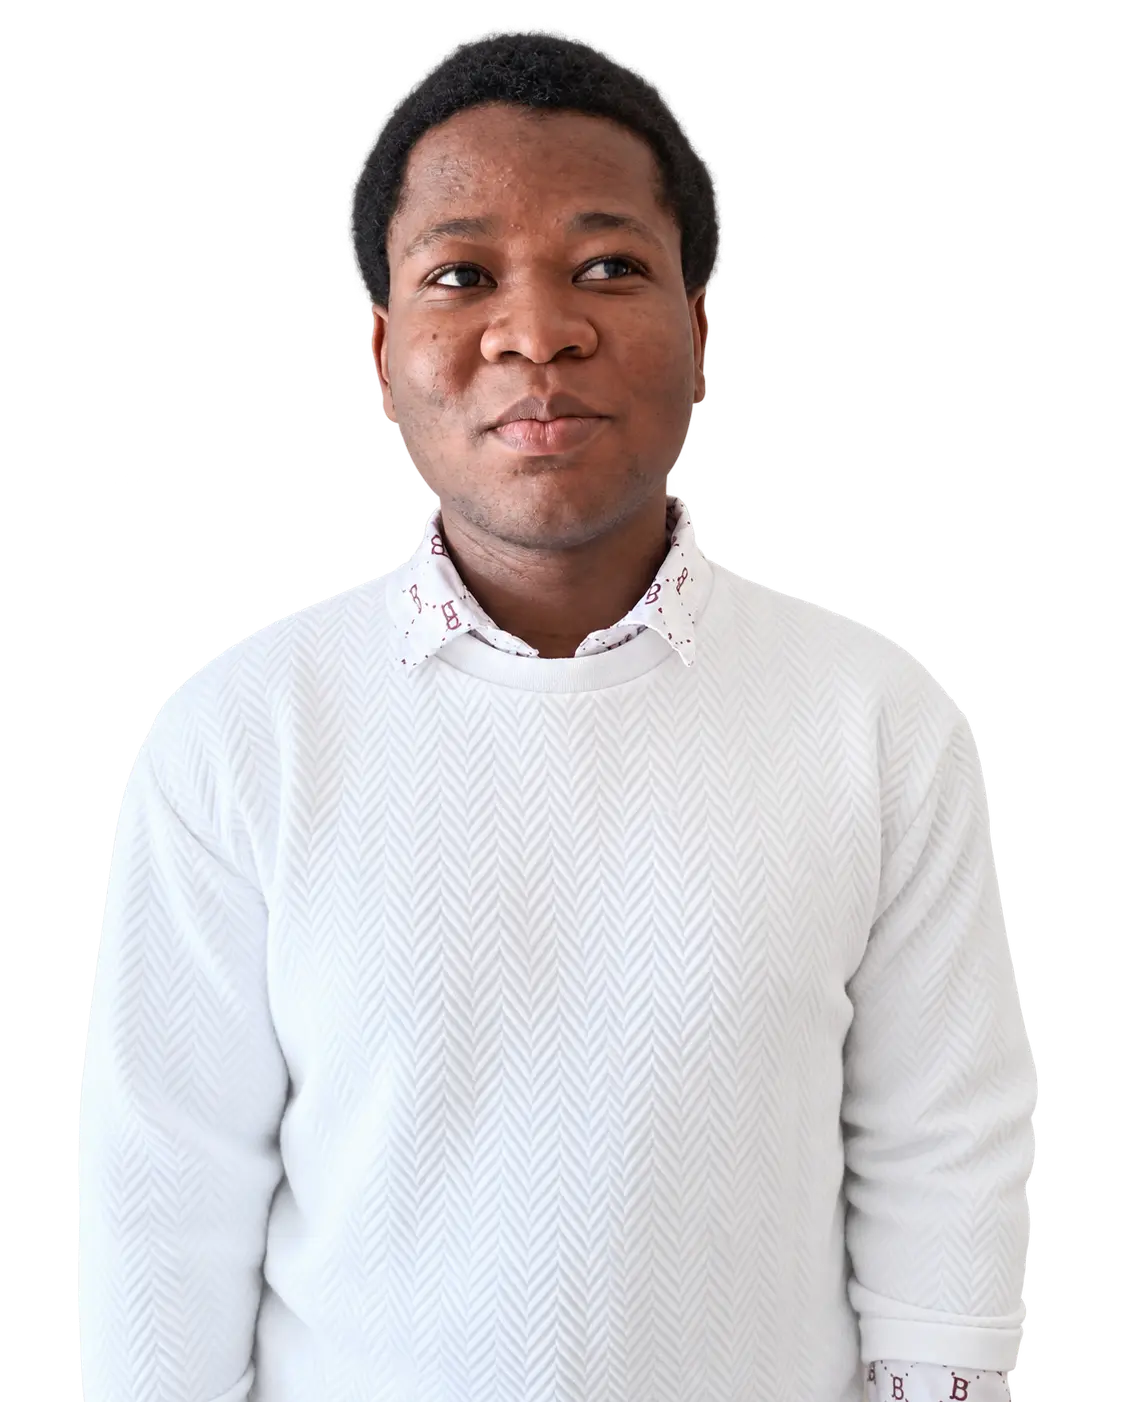
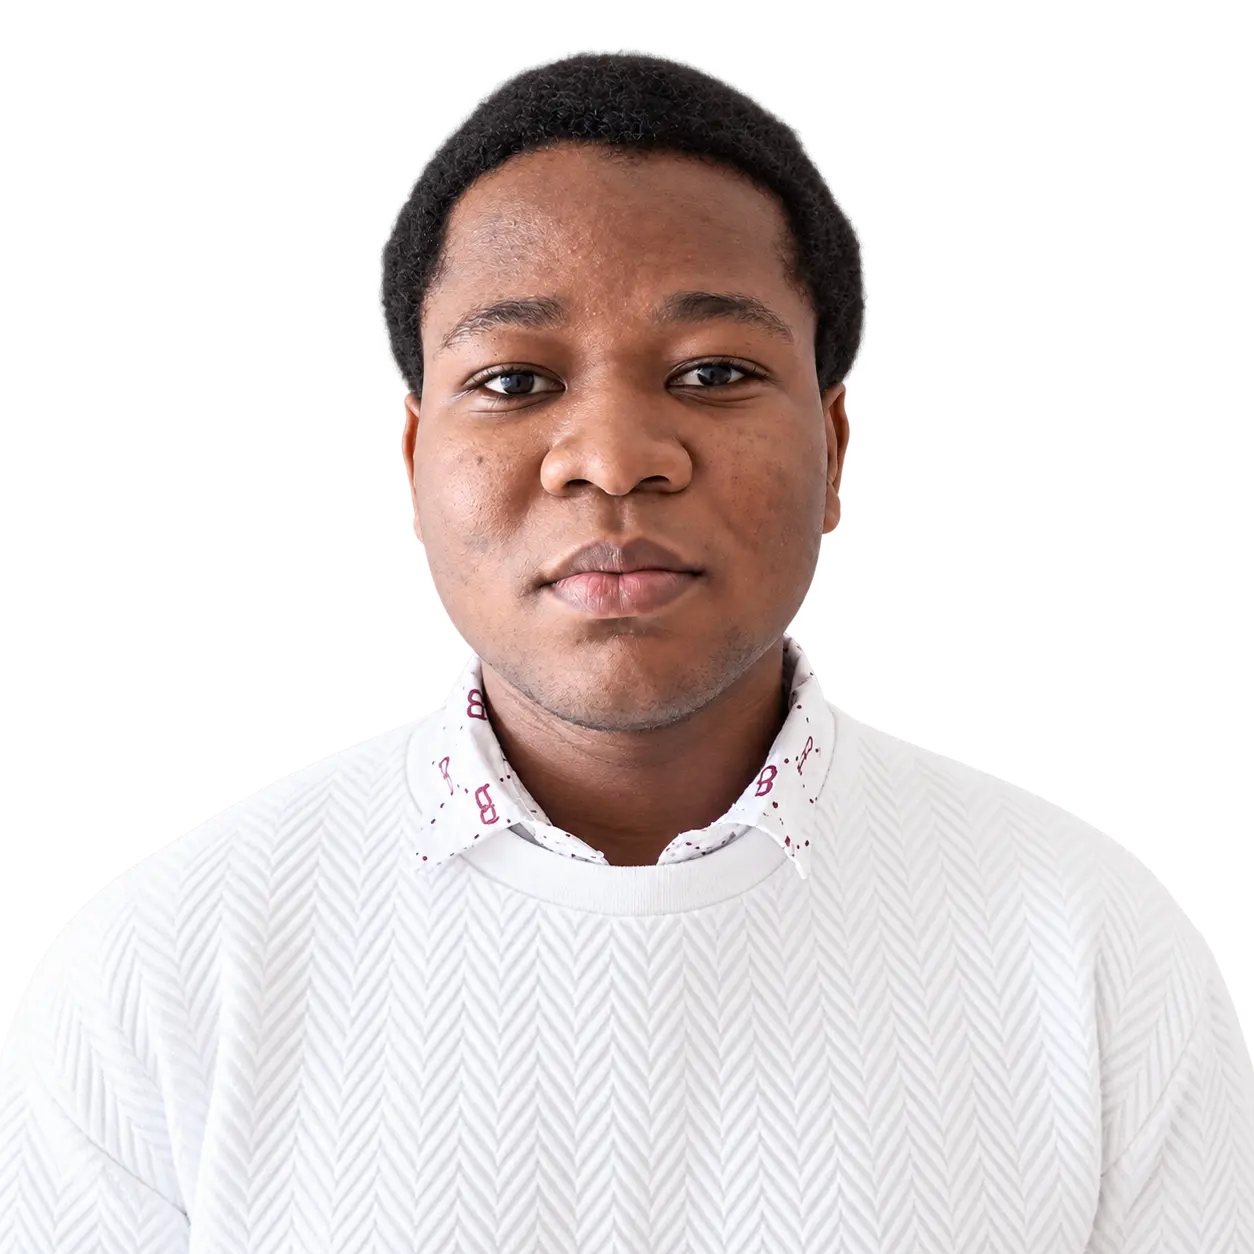
Refine portrait framing and complexion from original front-facing photo

diff --git a/src/App.tsx b/src/App.tsx
@@ -86,7 +86,7 @@ function App() {
           </div>
           <div className="hero-art has-portrait">
             <svg viewBox="0 0 520 450" fill="none" aria-hidden="true"><g className="yellow-strokes" stroke="#f3ca69" strokeLinecap="round"><path className="stroke stroke-one" d="M118 170L344 55" strokeWidth="62"/><path className="stroke stroke-two" d="M95 300L410 143" strokeWidth="68"/><path className="stroke stroke-three" d="M168 389L427 263" strokeWidth="62"/></g><circle cx="85" cy="100" r="5" fill="#282720"/><path d="M443 355V378M432 366H455" stroke="#282720" strokeWidth="2"/></svg>
-            <img className="hero-portrait" src="/portrait-rudolf.webp" alt="Portrait de Rudolf Hounlete" width="1122" height="1402" fetchPriority="high" decoding="async" />
+            <img className="hero-portrait" src="/portrait-rudolf.webp" alt="Portrait de Rudolf Hounlete" width="1254" height="1254" fetchPriority="high" decoding="async" />
           </div>
         </section>
 

diff --git a/README.md b/README.md
@@ -6,7 +6,7 @@ Portfolio personnel : développement logiciel, machine learning et systèmes exp
 
 ## Design
 
-Fond blanc cassé, jaune doux, typographie DM Sans et composition aérée, inspirés du portfolio jaune retenu comme référence. L’accueil présente le profil à gauche et un portrait détouré à droite, devant les touches jaunes animées. Il est préparé à partir de la photographie originale devant un mur clair : cadrage du buste et retouche légère du teint, sans décor suisse.
+Fond blanc cassé, jaune doux, typographie DM Sans et composition aérée, inspirés du portfolio jaune retenu comme référence. L’accueil présente le profil à gauche et un portrait détouré à droite, devant les touches jaunes animées. Il est préparé à partir de la photographie originale devant un mur clair : cadrage tête-épaules et retouche naturelle du teint, sans décor suisse.
 
 Les projets disposent d’une illustration abstraite et d’une fiche détaillée. Les visuels portent la mention « Illustration du projet » : ce ne sont pas des captures des applications ni des résultats mesurés. Le contenu comprend RiskSim, Horizon et les projets déjà présents dans le portfolio.
 
